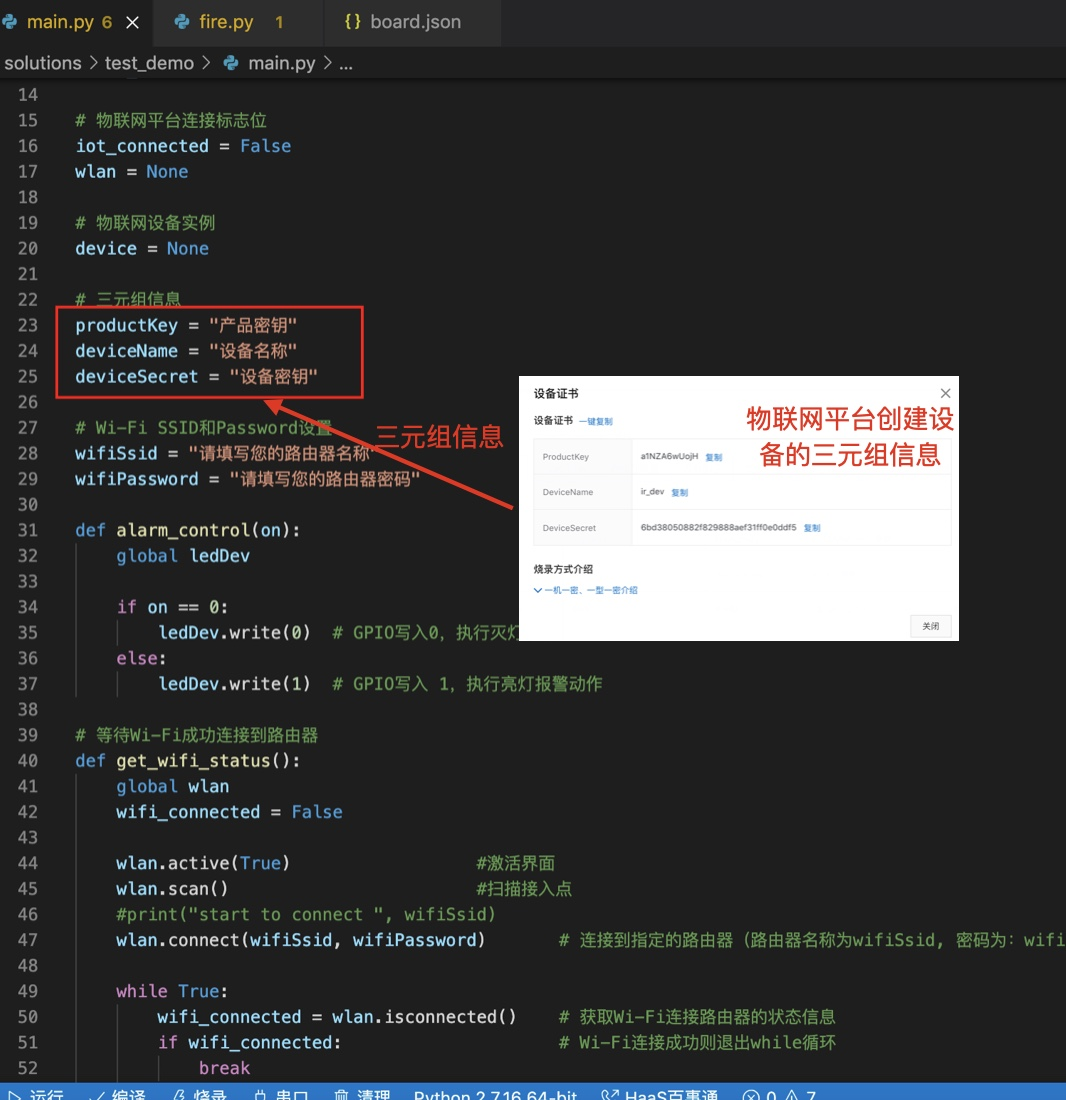
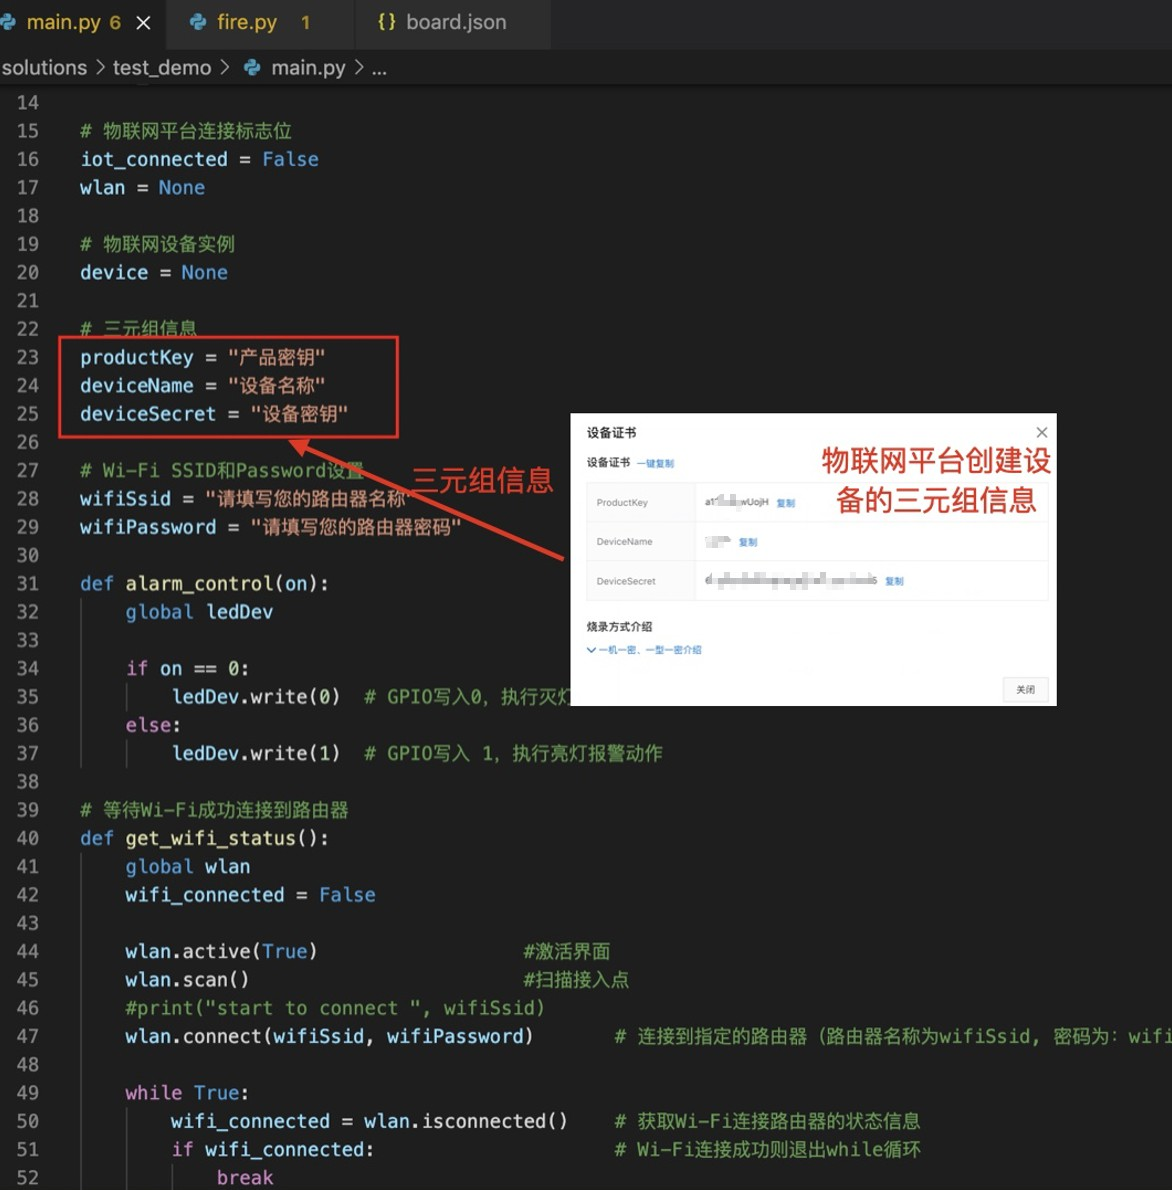
remove secure related information from pictures

diff --git a/4-智慧工业/场景1-火焰监控报警系统/2-火焰亮度数据上云/ESP32_火焰检测数据上云.md b/4-智慧工业/场景1-火焰监控报警系统/2-火焰亮度数据上云/ESP32_火焰检测数据上云.md
@@ -35,8 +35,7 @@ wifiPassword = "请填写您的路由器密码"
 修改fire_detector工程里main.py中productKey、deviceName和deviceSecret的值为读者创建的物联网设备的三元组信息，如下图所示：
 
 <div align="center">
-<img src=./../../../图片/4_火焰监控系统_修改设备端三元组信息_esp32.jpg
- width=40%/>
+<img src=./../../../图片/4_火焰监控系统_修改设备端三元组信息_esp32.jpg width=40%/>
 </div>
 
 1. **修改设备端上报数据所用标识符**

diff --git a/2-智能生活/场景2-起夜灯/2-起夜灯数据上云/ESP32_起夜灯数据上云.md b/2-智能生活/场景2-起夜灯/2-起夜灯数据上云/ESP32_起夜灯数据上云.md
@@ -43,6 +43,7 @@ wifiPassword = "请输入您的路由器密码"
 
 &emsp;&emsp;
 human_detector工程里main.py中下面的代码实现的是上传起夜灯状态到云端的功能，其中LEDSwitch便是起夜灯状态上报云端所用的标识符。
+
 ```python
 while True :
     have_human = irDev.irDetect()   # 获取传感器的值
